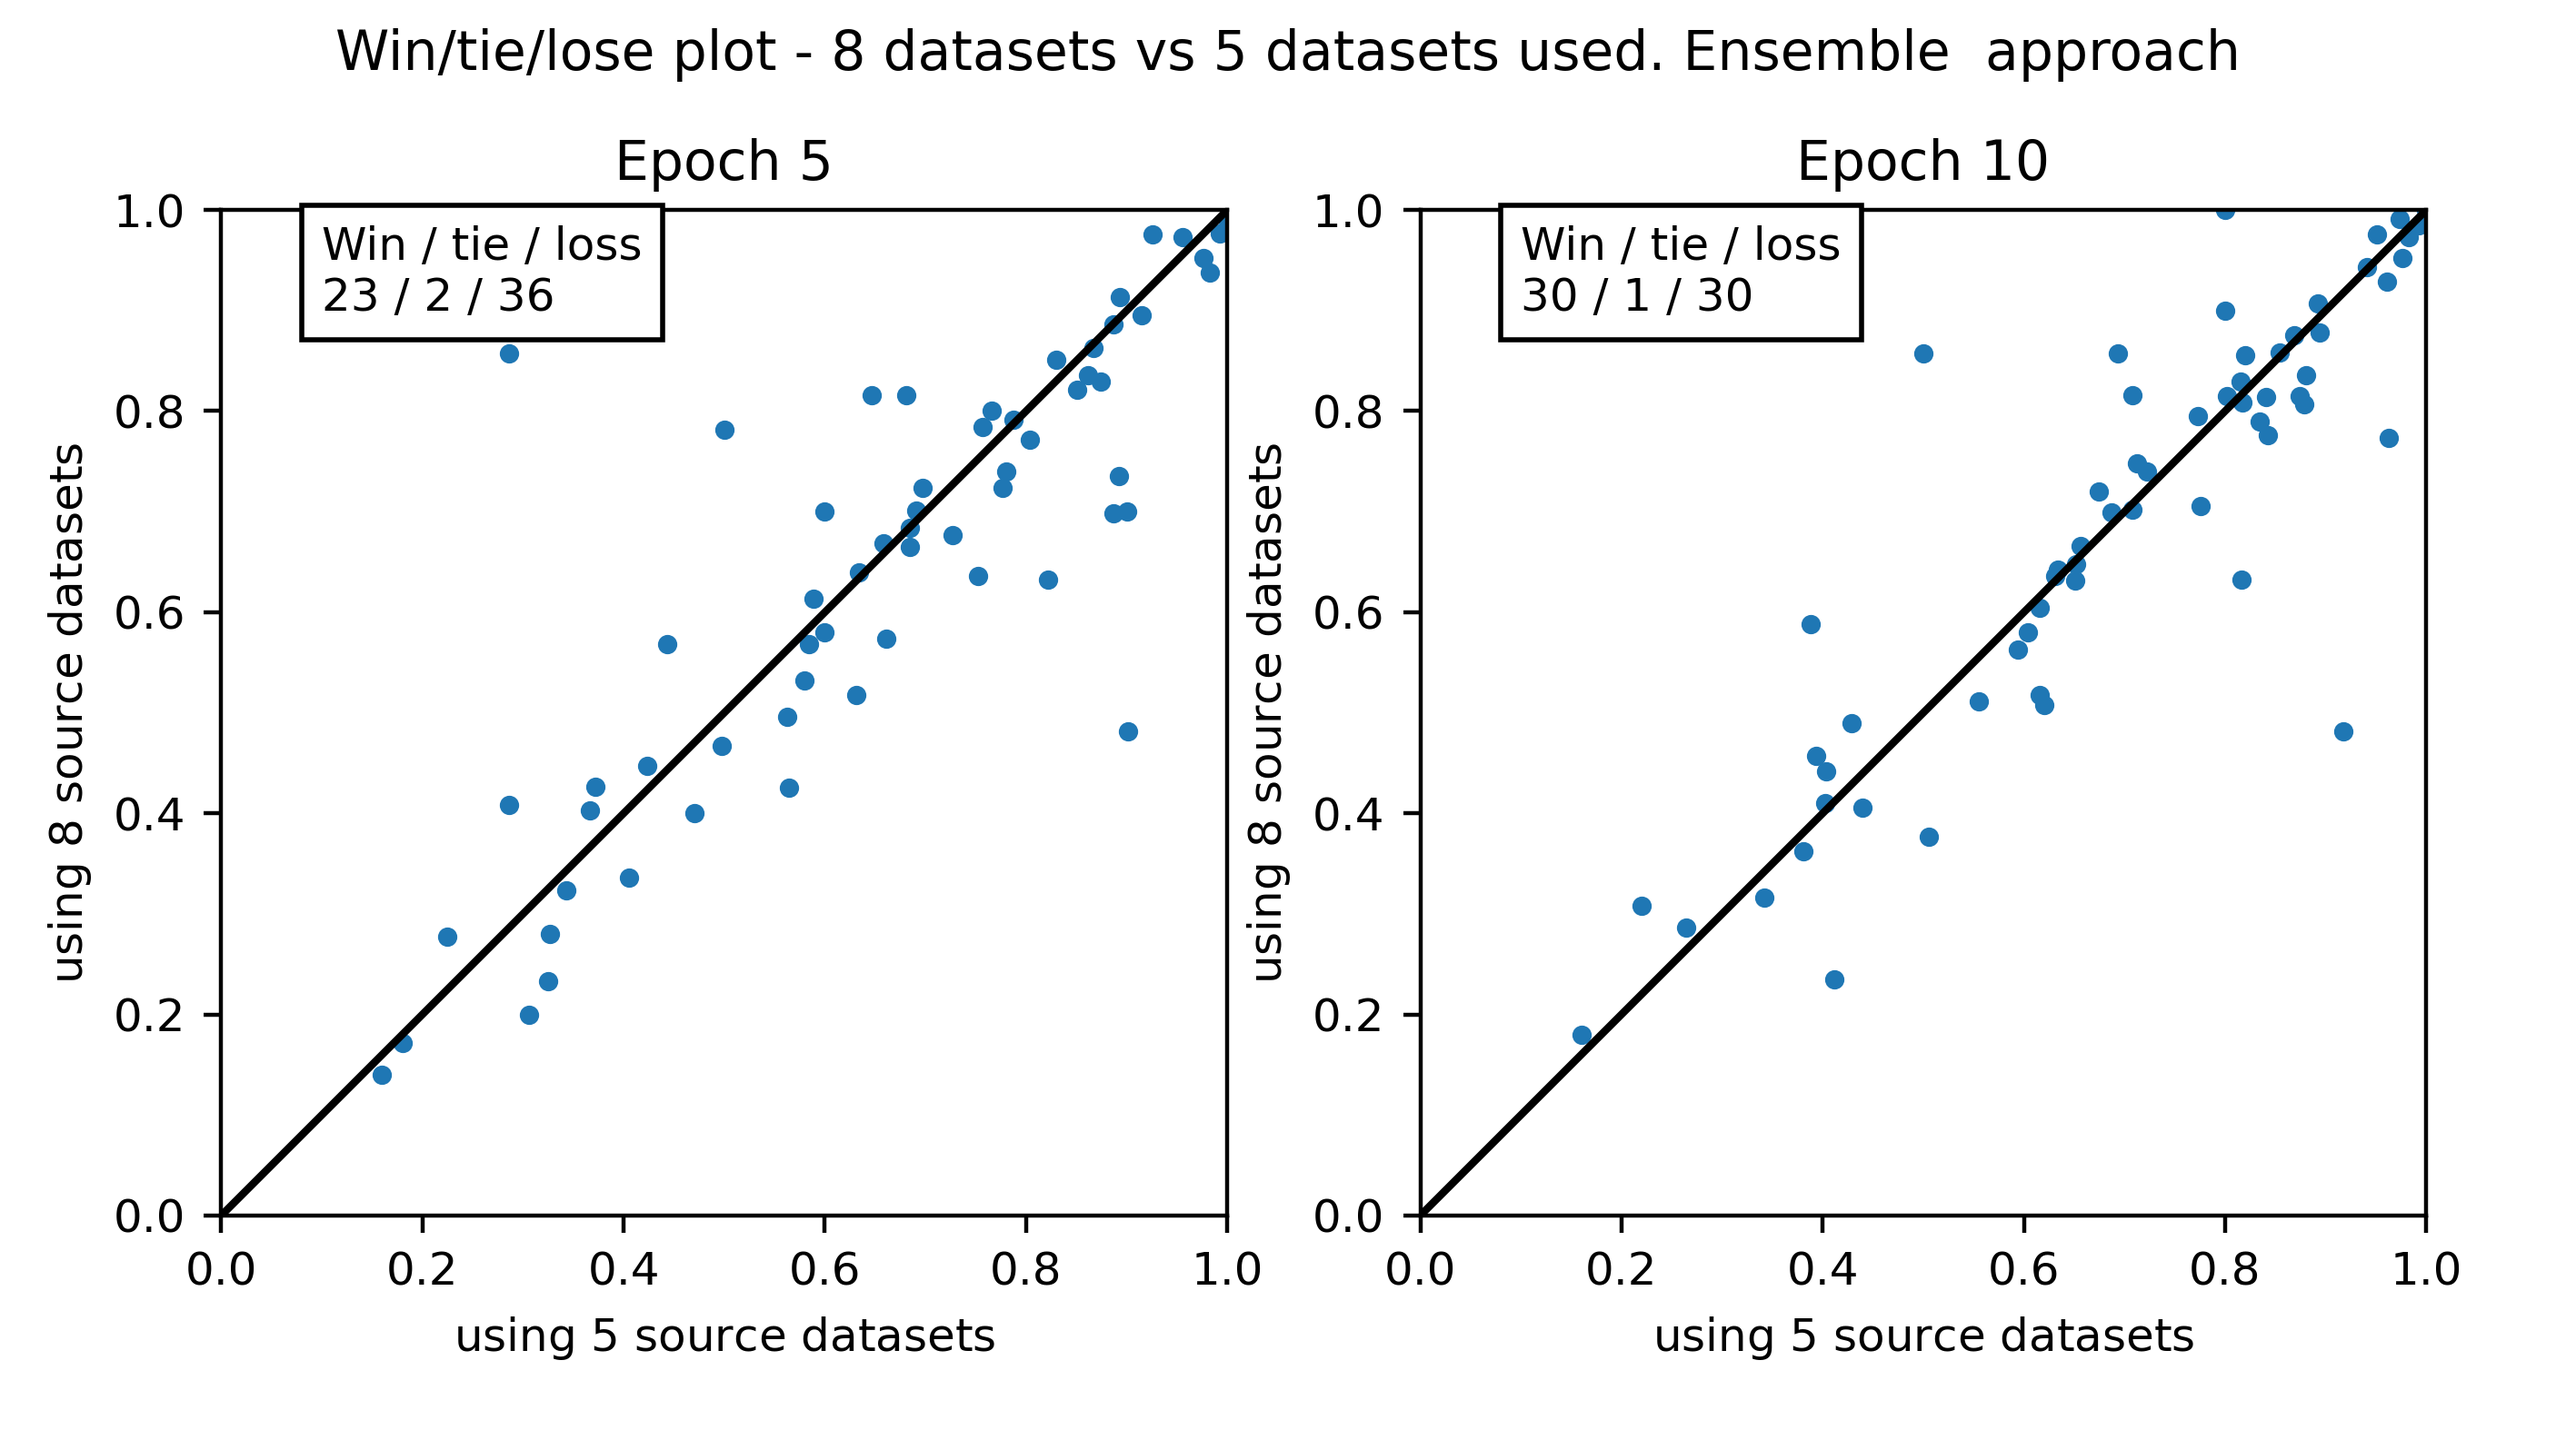
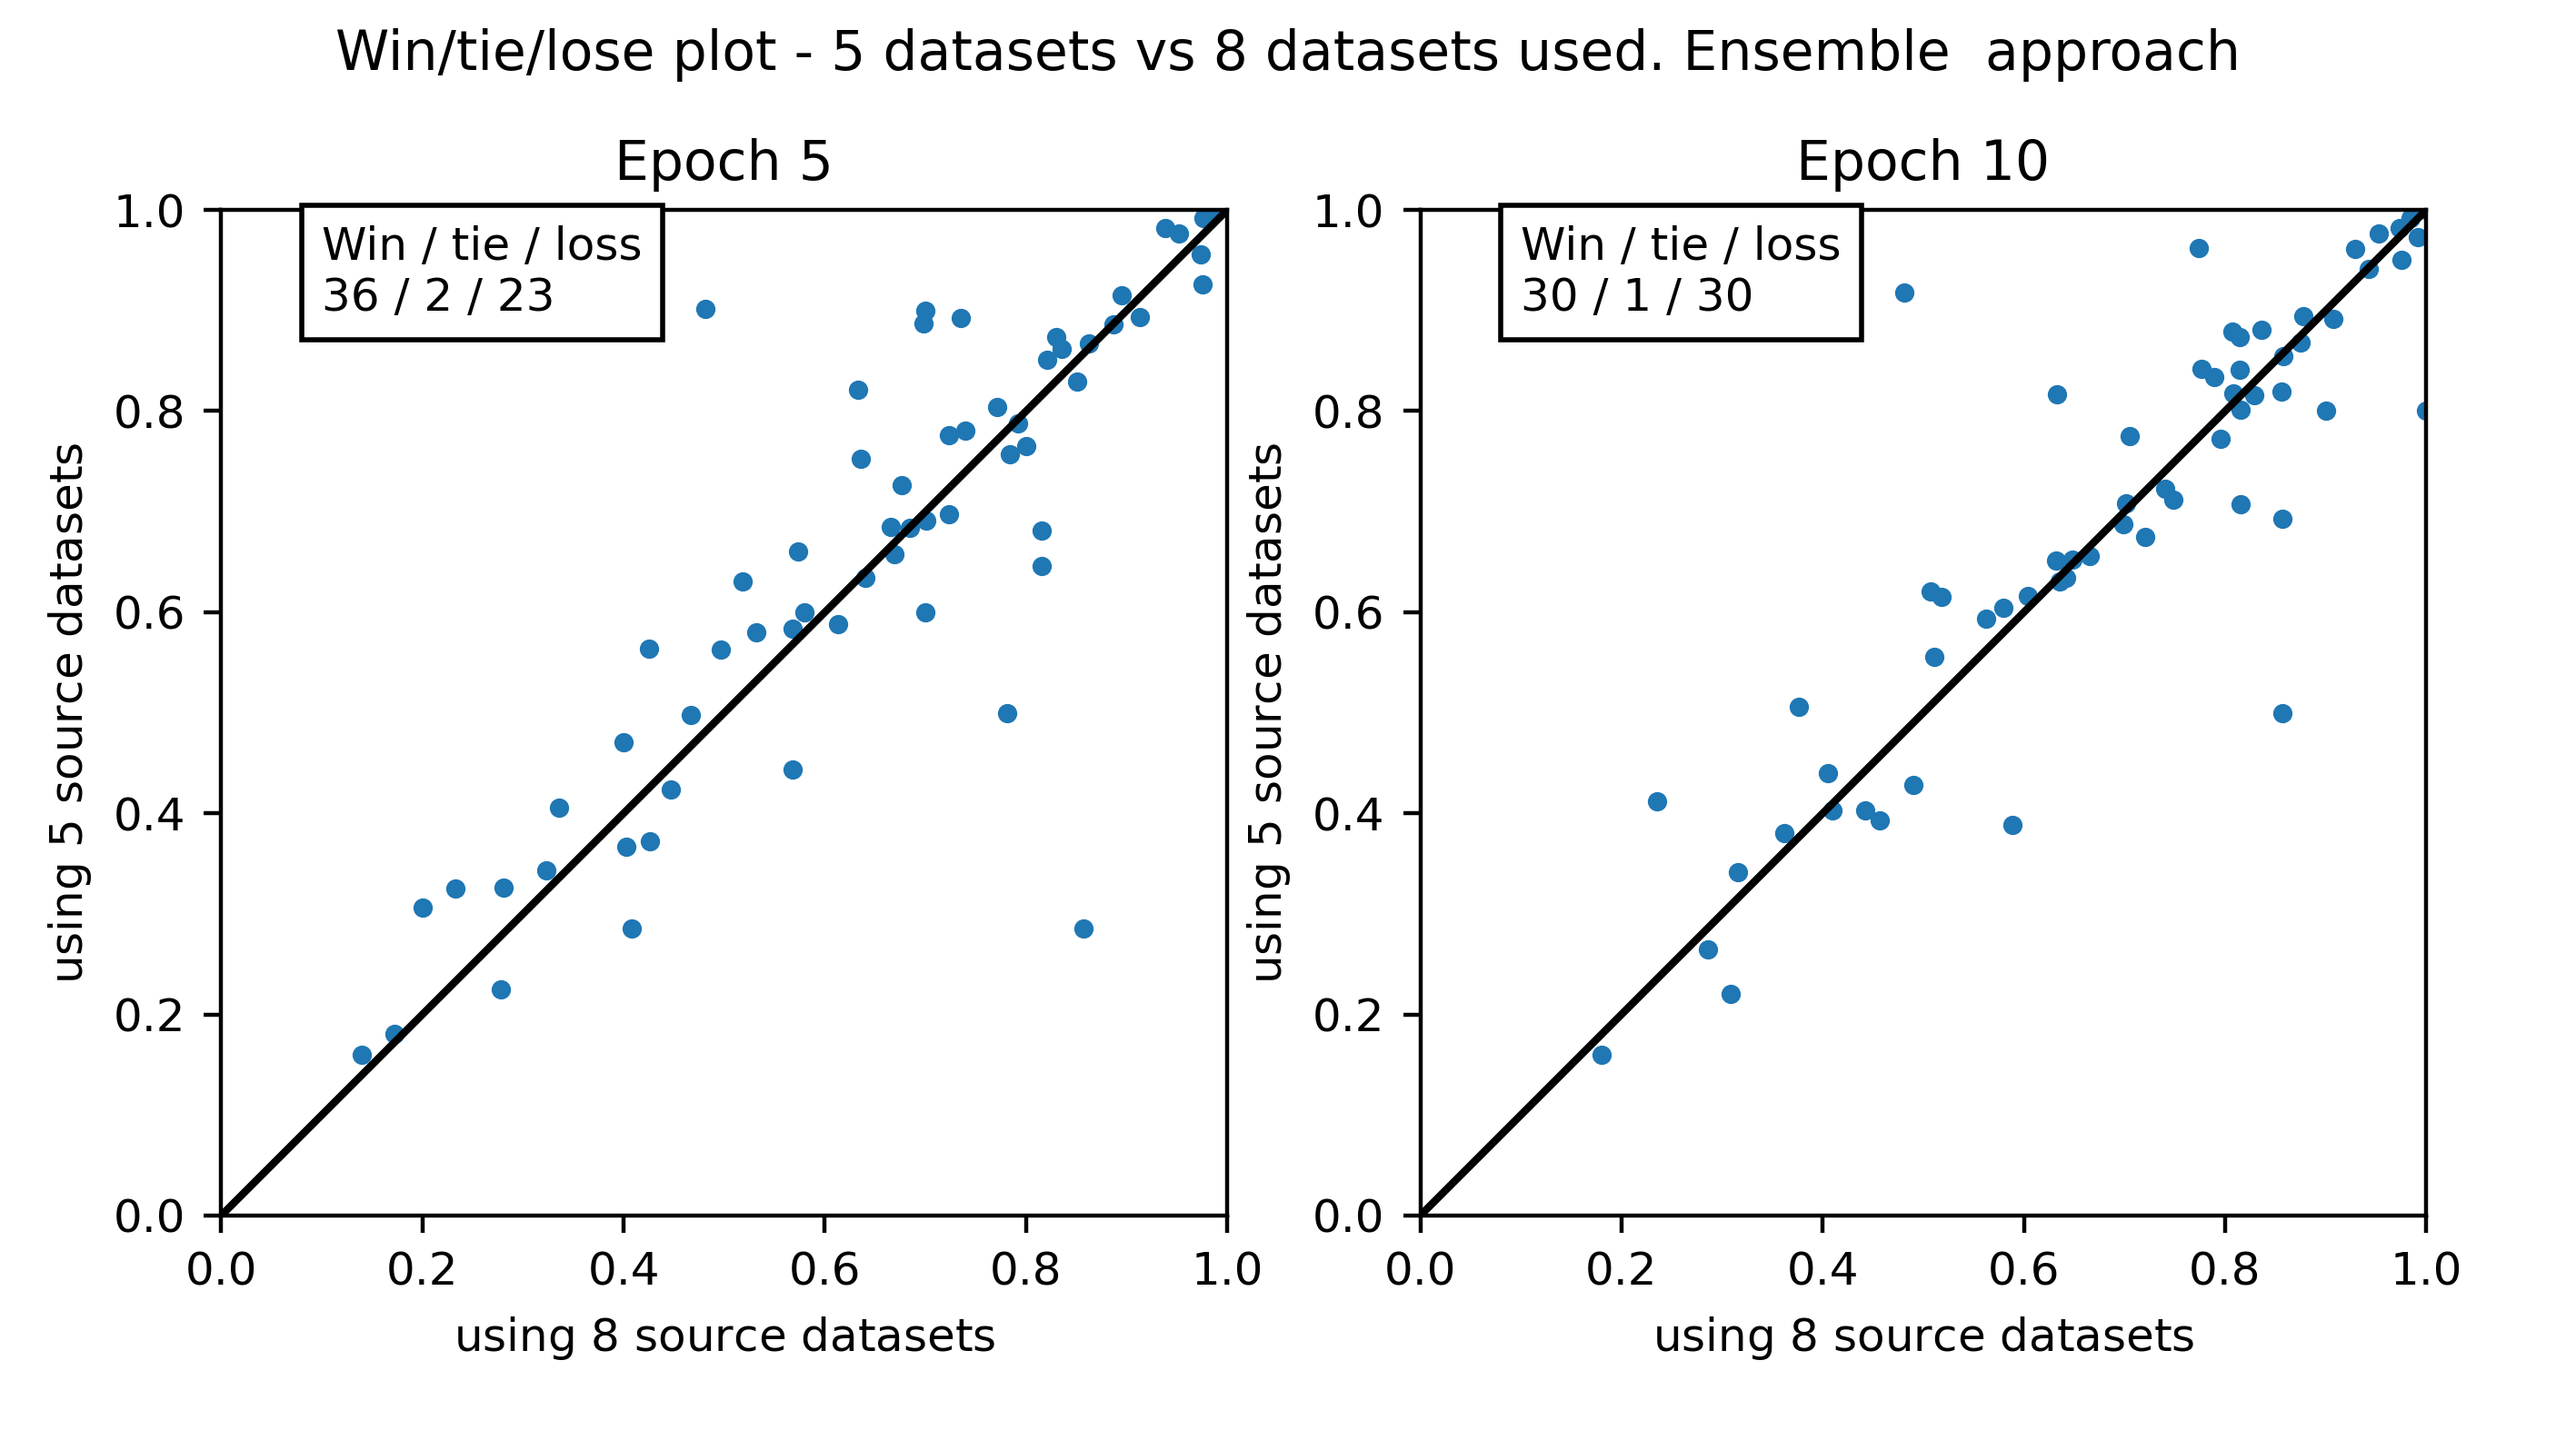
fipped sides

diff --git a/src/results/ensemble_dba_3_vs_5/get_metrics_per_epoch.py b/src/results/ensemble_dba_3_vs_5/get_metrics_per_epoch.py
@@ -7,22 +7,22 @@ from results.utils import Results
 
 class NumberOfDatasets(Results):
     approach_name = "3 vs 5 vs 8 datasets used. Ensemble "
-    distribution_names = ("3 datasets", "5 datasets")
+    distribution_names = ("5 datasets", "3 datasets")
     results_root_path = os.path.dirname(__file__).replace("\\", "/")
-    first_result_key_name_loss = "3_ensemble_loss"
-    first_result_key_name_val_loss = "3_ensemble_val_loss"
-    first_result_key_name_acc = "3_ensemble_accuracy"
-    first_result_key_name_val_acc = "3_ensemble_val_accuracy"
-    second_result_key_name_loss = "5_ensemble_loss"
-    second_result_key_name_val_loss = "5_ensemble_val_loss"
-    second_result_key_name_acc = "5_ensemble_accuracy"
-    second_result_key_name_val_acc = "5_ensemble_val_accuracy"
+    first_result_key_name_loss = "5_ensemble_loss"
+    first_result_key_name_val_loss = "5_ensemble_val_loss"
+    first_result_key_name_acc = "5_ensemble_accuracy"
+    first_result_key_name_val_acc = "5_ensemble_val_accuracy"
+    second_result_key_name_loss = "3_ensemble_loss"
+    second_result_key_name_val_loss = "3_ensemble_val_loss"
+    second_result_key_name_acc = "3_ensemble_accuracy"
+    second_result_key_name_val_acc = "3_ensemble_val_accuracy"
     third_result_key_name_loss = "8_ensemble_loss"
     third_result_key_name_val_loss = "8_ensemble_val_loss"
     third_result_key_name_acc = "8_ensemble_accuracy"
     third_result_key_name_val_acc = "8_ensemble_val_accuracy"
-    x_label_win_tie_loss = "using 5 source datasets"
-    y_label_win_tie_loss = "using 3 source datasets"
+    x_label_win_tie_loss = "using 3 source datasets"
+    y_label_win_tie_loss = "using 5 source datasets"
 
     def __init__(
         self,
@@ -41,13 +41,13 @@ class NumberOfDatasets(Results):
 
     def _get_first_experiment_runs(self) -> Dict[str, Run]:
         hist = self._get_history_per_experiment(
-            self.first_experiment_id, add_prefix="3_"
+            self.first_experiment_id, add_prefix="5_"
         )
         return hist
 
     def _get_second_experiment_runs(self) -> Dict[str, Run]:
         hist = self._get_history_per_experiment(
-            self.second_experiment_id, add_prefix="5_"
+            self.second_experiment_id, add_prefix="3_"
         )
         return hist
 
@@ -90,14 +90,14 @@ class NumberOfDatasets(Results):
 
     def _prepare_legend(self, text: str):
         mapping = {
-            self.first_result_key_name_loss: "Ensemble with 3 datasets \n- loss - train split",
-            self.first_result_key_name_val_loss: "Ensemble with 3 datasets \n- loss - validation split",
-            self.first_result_key_name_acc: "Ensemble with 3 datasets \n- accuracy - train split",
-            self.first_result_key_name_val_acc: "Ensemble with 3 datasets \n- accuracy - validation split",
-            self.second_result_key_name_loss: "Ensemble with 5 datasets \n- loss - train split",
-            self.second_result_key_name_val_loss: "Ensemble with 5 datasets \n- loss - validation split",
-            self.second_result_key_name_acc: "Ensemble with 5 datasets \n- accuracy - train split",
-            self.second_result_key_name_val_acc: "Ensemble with 5 datasets \n- accuracy - validation split",
+            self.first_result_key_name_loss: "Ensemble with 5 datasets \n- loss - train split",
+            self.first_result_key_name_val_loss: "Ensemble with 5 datasets \n- loss - validation split",
+            self.first_result_key_name_acc: "Ensemble with 5 datasets \n- accuracy - train split",
+            self.first_result_key_name_val_acc: "Ensemble with 5 datasets \n- accuracy - validation split",
+            self.second_result_key_name_loss: "Ensemble with 3 datasets \n- loss - train split",
+            self.second_result_key_name_val_loss: "Ensemble with 3 datasets \n- loss - validation split",
+            self.second_result_key_name_acc: "Ensemble with 3 datasets \n- accuracy - train split",
+            self.second_result_key_name_val_acc: "Ensemble with 3 datasets \n- accuracy - validation split",
             self.third_result_key_name_loss: "Ensemble with 8 datasets \n- loss - train split",
             self.third_result_key_name_val_loss: "Ensemble with 8 datasets \n- loss - validation split",
             self.third_result_key_name_acc: "Ensemble with 8 datasets \n- accuracy - train split",
@@ -118,8 +118,8 @@ class NumberOfDatasets(Results):
 
 
 results = NumberOfDatasets(
-    first_experiment_id="879346711569312185",
-    second_experiment_id="554900821027531839",
+    first_experiment_id="554900821027531839",
+    second_experiment_id="879346711569312185",
     third_experiment_id="528548208530565493",
     assert_=False,
 )

diff --git a/src/results/ensemble_dba_5_vs_8/get_metrics_per_epoch.py b/src/results/ensemble_dba_5_vs_8/get_metrics_per_epoch.py
@@ -6,42 +6,42 @@ from results.utils import Results
 
 
 class NumberOfDatasets5_8(Results):
-    approach_name = "8 datasets vs 5 datasets used. Ensemble "
-    distribution_names = ("8 datasets", "5 datasets")
+    approach_name = "5 datasets vs 8 datasets used. Ensemble "
+    distribution_names = ("5 datasets", "8 datasets")
     results_root_path = os.path.dirname(__file__).replace("\\", "/")
-    first_result_key_name_loss = "8_ensemble_loss"
-    first_result_key_name_val_loss = "8_ensemble_val_loss"
-    first_result_key_name_acc = "8_ensemble_accuracy"
-    first_result_key_name_val_acc = "8_ensemble_val_accuracy"
-    second_result_key_name_loss = "5_ensemble_loss"
-    second_result_key_name_val_loss = "5_ensemble_val_loss"
-    second_result_key_name_acc = "5_ensemble_accuracy"
-    second_result_key_name_val_acc = "5_ensemble_val_accuracy"
-    x_label_win_tie_loss = "using $5$ source datasets"
-    y_label_win_tie_loss = "using $8$ source datasets"
+    first_result_key_name_loss = "5_ensemble_loss"
+    first_result_key_name_val_loss = "5_ensemble_val_loss"
+    first_result_key_name_acc = "5_ensemble_accuracy"
+    first_result_key_name_val_acc = "5_ensemble_val_accuracy"
+    second_result_key_name_loss = "8_ensemble_loss"
+    second_result_key_name_val_loss = "8_ensemble_val_loss"
+    second_result_key_name_acc = "8_ensemble_accuracy"
+    second_result_key_name_val_acc = "8_ensemble_val_accuracy"
+    x_label_win_tie_loss = "using $8$ source datasets"
+    y_label_win_tie_loss = "using $5$ source datasets"
 
     def _get_first_experiment_runs(self) -> Dict[str, Run]:
         hist = self._get_history_per_experiment(
-            self.first_experiment_id, add_prefix="8_"
+            self.first_experiment_id, add_prefix="5_"
         )
         return hist
 
     def _get_second_experiment_runs(self) -> Dict[str, Run]:
         hist = self._get_history_per_experiment(
-            self.second_experiment_id, add_prefix="5_"
+            self.second_experiment_id, add_prefix="8_"
         )
         return hist
 
     def _prepare_legend(self, text: str):
         mapping = {
-            self.first_result_key_name_loss: "Ensemble with 8 datasets \n- loss - train split",
-            self.first_result_key_name_val_loss: "Ensemble with 8 datasets \n- loss - validation split",
-            self.first_result_key_name_acc: "Ensemble with 8 datasets \n- accuracy - train split",
-            self.first_result_key_name_val_acc: "Ensemble with 8 datasets \n- accuracy - validation split",
-            self.second_result_key_name_loss: "Ensemble with 5 datasets \n- loss - train split",
-            self.second_result_key_name_val_loss: "Ensemble with 5 datasets \n- loss - validation split",
-            self.second_result_key_name_acc: "Ensemble with 5 datasets \n- accuracy - train split",
-            self.second_result_key_name_val_acc: "Ensemble with 5 datasets \n- accuracy - validation split",
+            self.first_result_key_name_loss: "Ensemble with 5 datasets \n- loss - train split",
+            self.first_result_key_name_val_loss: "Ensemble with 5 datasets \n- loss - validation split",
+            self.first_result_key_name_acc: "Ensemble with 5 datasets \n- accuracy - train split",
+            self.first_result_key_name_val_acc: "Ensemble with 5 datasets \n- accuracy - validation split",
+            self.second_result_key_name_loss: "Ensemble with 8 datasets \n- loss - train split",
+            self.second_result_key_name_val_loss: "Ensemble with 8 datasets \n- loss - validation split",
+            self.second_result_key_name_acc: "Ensemble with 8 datasets \n- accuracy - train split",
+            self.second_result_key_name_val_acc: "Ensemble with 8 datasets \n- accuracy - validation split",
         }
         return mapping[text]
 
@@ -54,8 +54,8 @@ class NumberOfDatasets5_8(Results):
 
 
 results = NumberOfDatasets5_8(
-    first_experiment_id="528548208530565493",
-    second_experiment_id="554900821027531839",
+    first_experiment_id="554900821027531839",
+    second_experiment_id="528548208530565493",
     assert_=False,
 )
 results.save_wilcoxon_test()
